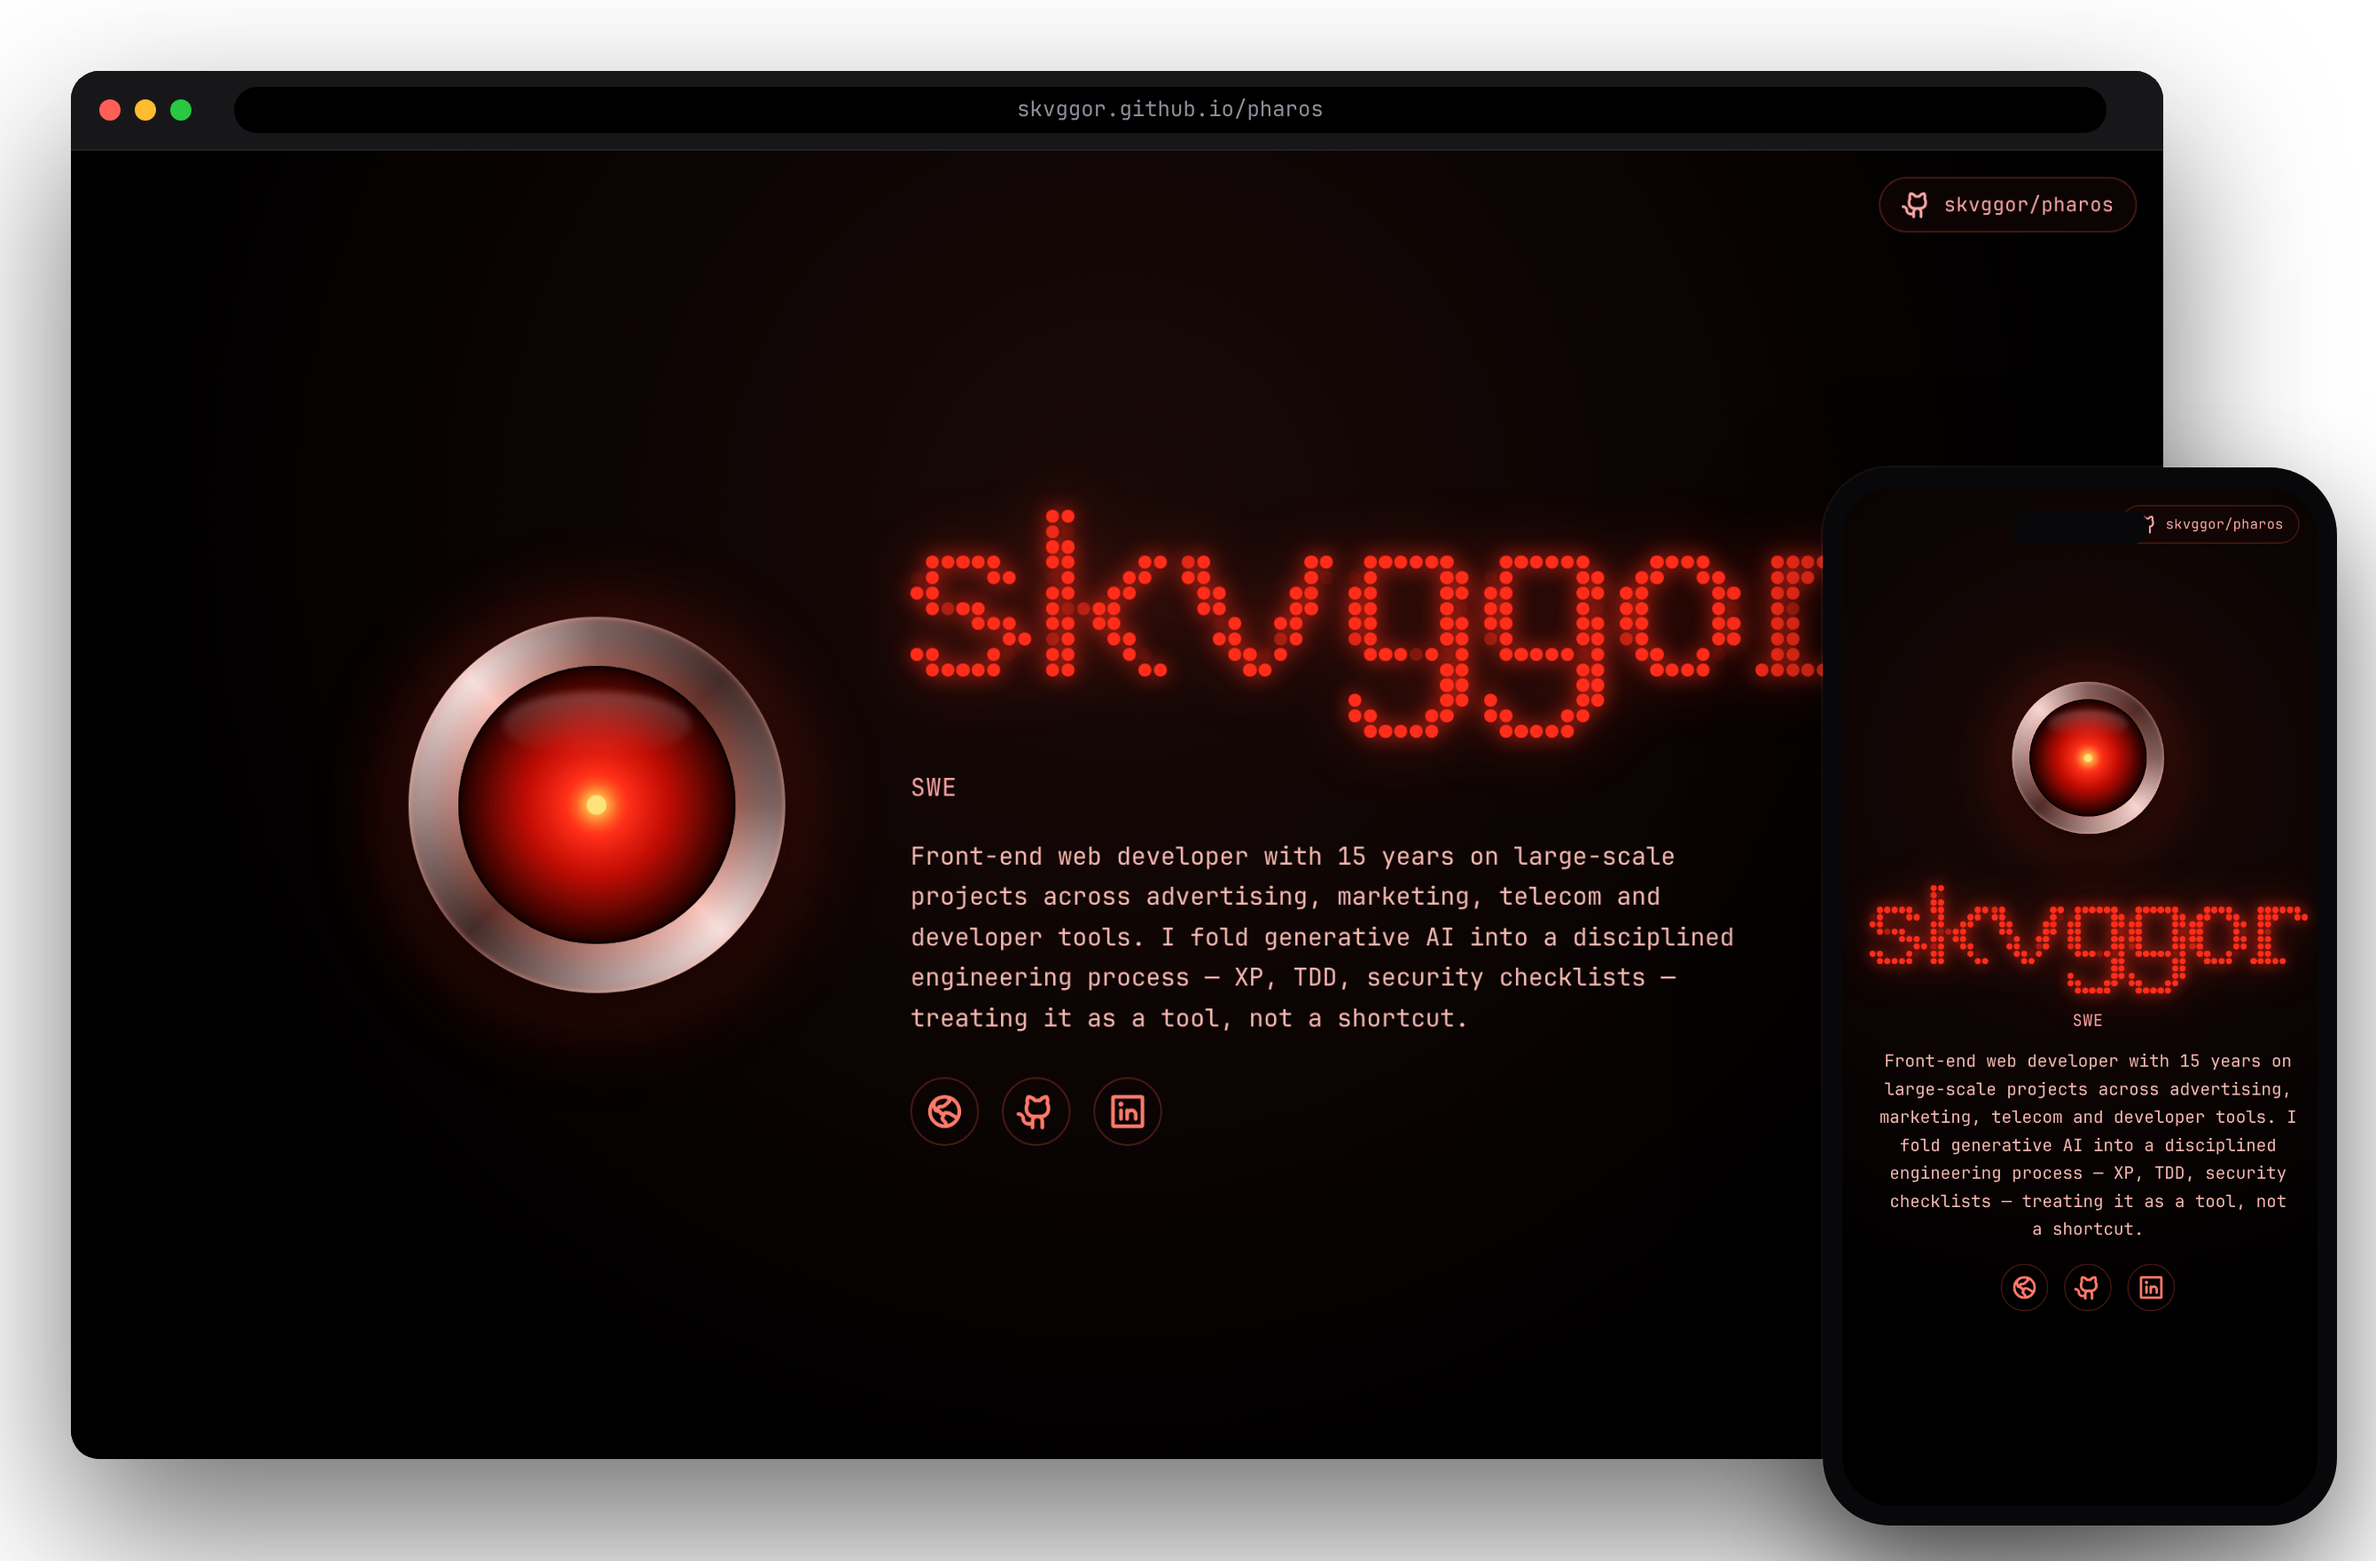
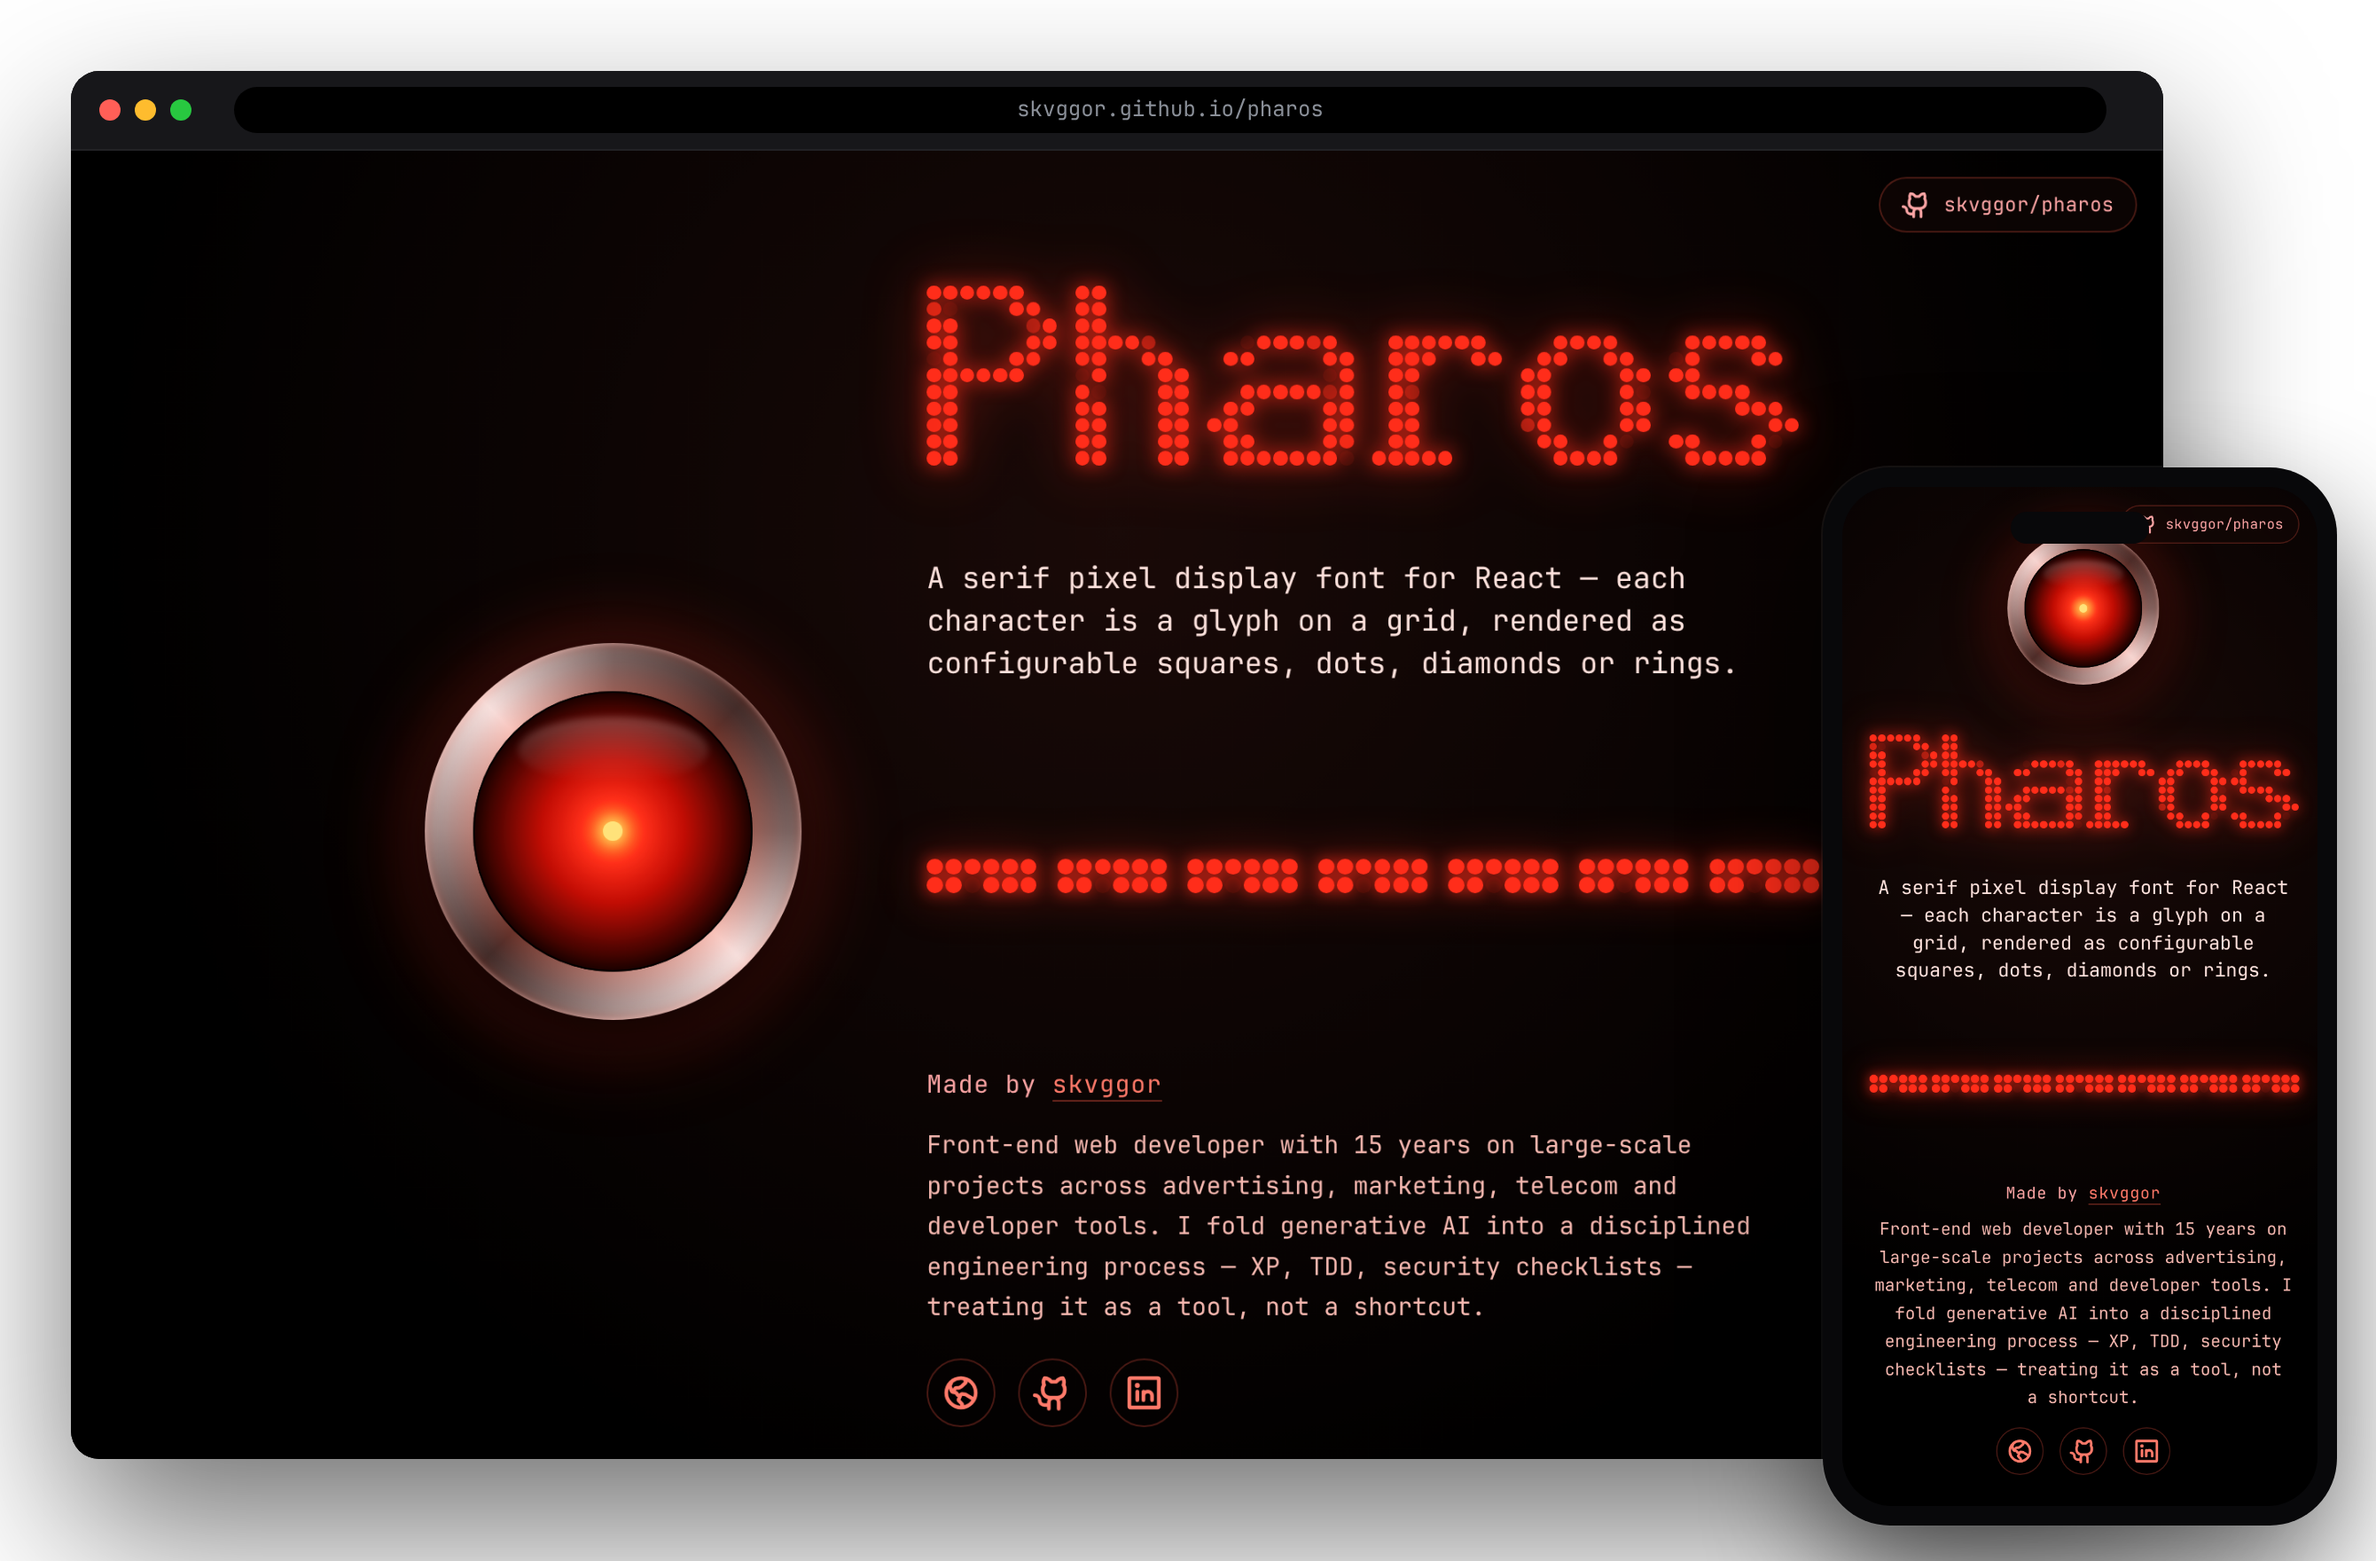
Refine the demo hero and add a hold-to-darken easter egg
- Headline reads "Pharos" with a tagline describing the library, an LED
  divider that shares the headline's dot size, glow and effects, an
  attribution link and the original bio.
- Engrave a curved "DON'T TOUCH!" along the lens that reacts to the
  light. Holding the eye now darkens the screen; complete it to start
  the countdown, leave early and it fades back.
- Make the LED ripple robust to layout changes (container-relative
  positions + ResizeObserver) and cover the divider too.
- Use touch-action: pan-y so the content stays scrollable on mobile
  while horizontal drags still drive the eye and LED effects.

diff --git a/demo/Hero.tsx b/demo/Hero.tsx
@@ -1,6 +1,7 @@
 import { PixelText } from "@components/PixelText";
 import { GithubLogo, GlobeHemisphereWest, LinkedinLogo } from "@phosphor-icons/react";
 import { useEffect, useRef, useState } from "react";
+import type { TransitionEvent } from "react";
 import "./hero.css";
 
 type Phase = "idle" | "countdown" | "matrix";
@@ -82,17 +83,27 @@ const LINKS = [
 
 export function Hero() {
   const eyeRef = useRef<HTMLButtonElement>(null);
-  const nameRef = useRef<HTMLHeadingElement>(null);
+  const ledsRef = useRef<HTMLDivElement>(null);
   const [phase, setPhase] = useState<Phase>("idle");
   const [count, setCount] = useState(COUNTDOWN_FROM);
+  const [holding, setHolding] = useState(false);
 
-  const onEyeActivate = () => {
-    if (phase === "idle") {
-      setCount(COUNTDOWN_FROM);
-      setPhase("countdown");
-    } else if (phase === "matrix") {
-      setPhase("idle");
-    }
+  // Hover/hold the eye to darken the screen; complete it to start the
+  // countdown. Leave before it finishes and it just fades back.
+  const startHold = () => {
+    if (phase === "idle") setHolding(true);
+  };
+  const stopHold = () => setHolding(false);
+
+  const onEyeClick = () => {
+    if (phase === "matrix") setPhase("idle");
+  };
+
+  const onFadeEnd = (event: TransitionEvent<HTMLDivElement>) => {
+    if (event.propertyName !== "opacity" || !holding) return;
+    setHolding(false);
+    setCount(COUNTDOWN_FROM);
+    setPhase("countdown");
   };
 
   useEffect(() => {
@@ -177,7 +188,7 @@ export function Hero() {
   }, []);
 
   useEffect(() => {
-    const container = nameRef.current;
+    const container = ledsRef.current;
     if (!container) return;
     if (window.matchMedia("(prefers-reduced-motion: reduce)").matches) return;
 
@@ -186,9 +197,12 @@ export function Hero() {
     let pointerX = -9999;
     let pointerY = -9999;
     let radius = 44;
-    let cells: { el: HTMLElement; x: number; y: number; off: boolean }[] = [];
+    // Positions are cached relative to the container, so the effect stays
+    // correct when the container moves (scroll) or the fluid text resizes.
+    let cells: { el: HTMLElement; rx: number; ry: number; off: boolean }[] = [];
 
     const sample = () => {
+      const bounds = container.getBoundingClientRect();
       const pixels = Array.from(
         container.querySelectorAll<HTMLElement>(".pharos__pixel--on"),
       );
@@ -196,8 +210,8 @@ export function Hero() {
         const r = el.getBoundingClientRect();
         return {
           el,
-          x: r.left + r.width / 2,
-          y: r.top + r.height / 2,
+          rx: r.left + r.width / 2 - bounds.left,
+          ry: r.top + r.height / 2 - bounds.top,
           off: false,
         };
       });
@@ -215,10 +229,11 @@ export function Hero() {
     };
 
     const tick = () => {
+      const bounds = container.getBoundingClientRect();
       const reach = radius * radius;
       for (const cell of cells) {
-        const dx = cell.x - pointerX;
-        const dy = cell.y - pointerY;
+        const dx = bounds.left + cell.rx - pointerX;
+        const dy = bounds.top + cell.ry - pointerY;
         const inside = dx * dx + dy * dy < reach;
         if (inside && !cell.off) {
           cell.off = true;
@@ -240,24 +255,23 @@ export function Hero() {
       frame = requestAnimationFrame(tick);
     });
 
+    const observer = new ResizeObserver(sample);
+    observer.observe(container);
     window.addEventListener("pointermove", onMove);
     window.addEventListener("pointerdown", onMove);
     window.addEventListener("pointerup", onLeave);
     window.addEventListener("pointercancel", onLeave);
     document.addEventListener("mouseleave", onLeave);
-    window.addEventListener("resize", sample);
-    window.addEventListener("scroll", sample, { passive: true });
 
     return () => {
       cancelAnimationFrame(init);
       cancelAnimationFrame(frame);
+      observer.disconnect();
       window.removeEventListener("pointermove", onMove);
       window.removeEventListener("pointerdown", onMove);
       window.removeEventListener("pointerup", onLeave);
       window.removeEventListener("pointercancel", onLeave);
       document.removeEventListener("mouseleave", onLeave);
-      window.removeEventListener("resize", sample);
-      window.removeEventListener("scroll", sample);
     };
   }, []);
 
@@ -281,25 +295,64 @@ export function Hero() {
           className="hero__eye"
           ref={eyeRef}
           aria-label="Activate"
-          onClick={onEyeActivate}
+          onClick={onEyeClick}
+          onPointerEnter={startHold}
+          onPointerLeave={stopHold}
         >
           <div className="hero__lens">
             <span className="hero__pupil" />
+            <svg
+              className="hero__etch"
+              viewBox="0 0 100 100"
+              aria-hidden="true"
+            >
+              <defs>
+                <path
+                  id="hero-etch-path"
+                  fill="none"
+                  d="M 16,72 A 41,41 0 0 0 84,72"
+                />
+              </defs>
+              <text textAnchor="middle">
+                <textPath href="#hero-etch-path" startOffset="50%">
+                  {"DON'T TOUCH!"}
+                </textPath>
+              </text>
+            </svg>
           </div>
         </button>
 
-        <div className="hero__content">
-          <h1 className="hero__name hero__glow" ref={nameRef}>
+        <div className="hero__content" ref={ledsRef}>
+          <h1 className="hero__name hero__glow">
             <PixelText
-              text="skvggor"
+              text="Pharos"
               fluid
               pixelShape="dot"
               color={phase === "matrix" ? "#22c55e" : "#ff2d1a"}
-              aria-label="skvggor"
+              aria-label="Pharos"
             />
           </h1>
 
-          <p className="hero__role">SWE</p>
+          <p className="hero__tagline">
+            A serif pixel display font for React — each character is a glyph on
+            a grid, rendered as configurable squares, dots, diamonds or rings.
+          </p>
+
+          <div className="hero__divider" aria-hidden="true">
+            <PixelText
+              text="-------"
+              fluid
+              pixelShape="dot"
+              color={phase === "matrix" ? "#22c55e" : "#ff2d1a"}
+            />
+          </div>
+
+          <p className="hero__role">
+            Made by{" "}
+            <a href="https://skvggor.dev" target="_blank" rel="noreferrer">
+              skvggor
+            </a>
+          </p>
 
           <p className="hero__line">
             Front-end web developer with 15 years on large-scale projects across
@@ -324,6 +377,13 @@ export function Hero() {
           </nav>
         </div>
       </div>
+
+      {phase === "idle" && (
+        <div
+          className={holding ? "hero__fade is-holding" : "hero__fade"}
+          onTransitionEnd={onFadeEnd}
+        />
+      )}
 
       {phase === "countdown" && (
         <div className="hero__countdown">

diff --git a/demo/hero.css b/demo/hero.css
@@ -2,12 +2,12 @@
   min-height: 100svh;
   display: grid;
   place-items: center;
-  padding: 56px 24px;
+  padding: 40px 24px;
   background: radial-gradient(circle at 50% 28%, #1a0a08 0%, #000 72%);
   color: #fca5a5;
-  overflow: hidden;
-  /* route touch gestures to pointer events so the eye and LEDs react to drags */
-  touch-action: none;
+  /* allow vertical scroll (content stays reachable) while horizontal drags
+     still feed the eye/LED pointer effects */
+  touch-action: pan-y;
 }
 
 .hero__repo {
@@ -47,7 +47,7 @@
   flex-direction: column;
   align-items: center;
   text-align: center;
-  gap: clamp(24px, 6vw, 40px);
+  gap: clamp(18px, 5vw, 30px);
   width: 100%;
   max-width: 560px;
 }
@@ -120,6 +120,32 @@
     inset 0 0 0 1px rgba(0, 0, 0, 0.9);
 }
 
+/* faint warning etched into the glass */
+.hero__etch {
+  position: absolute;
+  inset: 0;
+  width: 100%;
+  height: 100%;
+  overflow: visible;
+  pointer-events: none;
+  z-index: 2;
+}
+
+.hero__etch text {
+  /* frosted engraving: light strokes that scatter the lens light — brighter
+     as the light intensifies (focus) and with a shadow that shifts with the
+     light direction (gx/gy), so it reacts as the illumination moves */
+  fill: rgba(255, 240, 232, calc(0.08 + 0.4 * var(--focus, 0.25)));
+  filter: drop-shadow(
+    calc(var(--gx, 0px) * 0.2) calc(var(--gy, 0px) * 0.2) 0.3px
+      rgba(0, 0, 0, 0.55)
+  );
+  font-family: ui-monospace, "SFMono-Regular", Menlo, monospace;
+  font-size: 7px;
+  font-weight: 700;
+  letter-spacing: 1.3px;
+}
+
 /* soft top reflection on the glass */
 .hero__lens::before {
   content: "";
@@ -149,17 +175,34 @@
   display: flex;
   flex-direction: column;
   align-items: center;
-  gap: clamp(14px, 3vw, 20px);
+  gap: clamp(10px, 2.2vw, 15px);
 }
 
 .hero__name {
-  width: min(92vw, 520px);
+  width: min(90vw, 470px);
   margin: 0;
 }
 
 .hero__glow {
   filter: drop-shadow(0 0 6px rgba(255, 45, 26, 0.85))
     drop-shadow(0 0 18px rgba(255, 45, 26, 0.4));
+}
+
+.hero__divider {
+  width: min(90vw, 470px);
+  line-height: 0;
+  filter: drop-shadow(0 0 5px rgba(255, 45, 26, 0.85))
+    drop-shadow(0 0 14px rgba(255, 45, 26, 0.4));
+}
+
+.hero__tagline {
+  max-width: 46ch;
+  margin: 0;
+  font-family: ui-monospace, "SFMono-Regular", Menlo, monospace;
+  font-size: clamp(14px, 4vw, 18px);
+  line-height: 1.45;
+  color: #fde2dd;
+  text-wrap: pretty;
 }
 
 .hero__role {
@@ -169,6 +212,20 @@
   letter-spacing: 0.04em;
   color: #fca5a5;
   text-wrap: pretty;
+}
+
+.hero__role a {
+  color: #ff7a6a;
+  text-decoration: none;
+  border-bottom: 1px solid rgba(255, 90, 71, 0.4);
+  transition:
+    color 0.2s ease,
+    border-color 0.2s ease;
+}
+
+.hero__role a:hover {
+  color: #ffd5cf;
+  border-color: #ff5a47;
 }
 
 .hero__line {
@@ -301,6 +358,22 @@
   }
 }
 
+/* easter egg: hold the eye to darken the screen, then the countdown begins */
+.hero__fade {
+  position: fixed;
+  inset: 0;
+  z-index: 55;
+  background: #000;
+  opacity: 0;
+  pointer-events: none;
+  transition: opacity 0.6s ease;
+}
+
+.hero__fade.is-holding {
+  opacity: 1;
+  transition: opacity 2.6s linear;
+}
+
 /* easter egg: countdown overlay */
 .hero__countdown {
   position: fixed;
@@ -342,14 +415,33 @@
   color: #86efac;
 }
 
+.hero--matrix .hero__tagline {
+  color: #bbf7d0;
+}
+
 .hero--matrix .hero__role,
 .hero--matrix .hero__line {
   color: #86efac;
 }
 
+.hero--matrix .hero__role a {
+  color: #4ade80;
+  border-color: rgba(74, 222, 128, 0.45);
+}
+
+.hero--matrix .hero__role a:hover {
+  color: #d7ffe3;
+  border-color: #22c55e;
+}
+
 .hero--matrix .hero__name {
   filter: drop-shadow(0 0 6px rgba(34, 197, 94, 0.85))
     drop-shadow(0 0 18px rgba(34, 197, 94, 0.4));
+}
+
+.hero--matrix .hero__divider {
+  filter: drop-shadow(0 0 5px rgba(34, 197, 94, 0.85))
+    drop-shadow(0 0 14px rgba(34, 197, 94, 0.4));
 }
 
 .hero--matrix .hero__links a {
@@ -432,7 +524,7 @@
 /* desktop: two-column console layout */
 @media (min-width: 900px) {
   .hero {
-    padding: 80px 48px;
+    padding: 52px 48px;
   }
 
   .hero__stage {
@@ -453,8 +545,9 @@
     align-items: flex-start;
   }
 
-  .hero__name {
-    width: min(48vw, 560px);
+  .hero__name,
+  .hero__divider {
+    width: min(44vw, 500px);
   }
 
   .hero__links {
